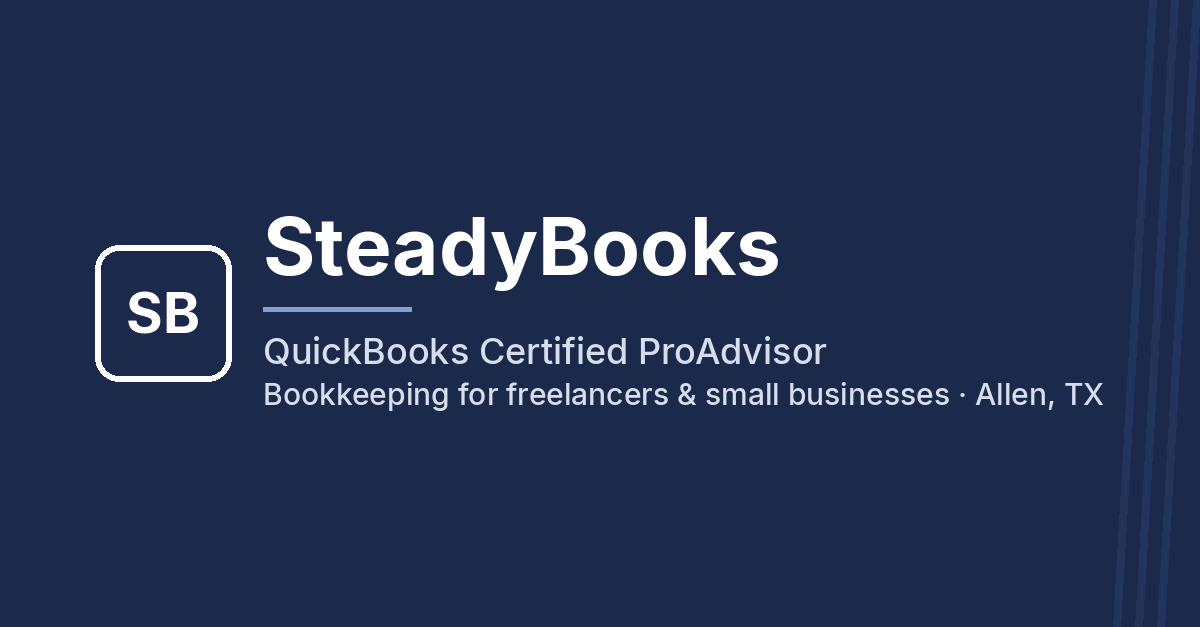
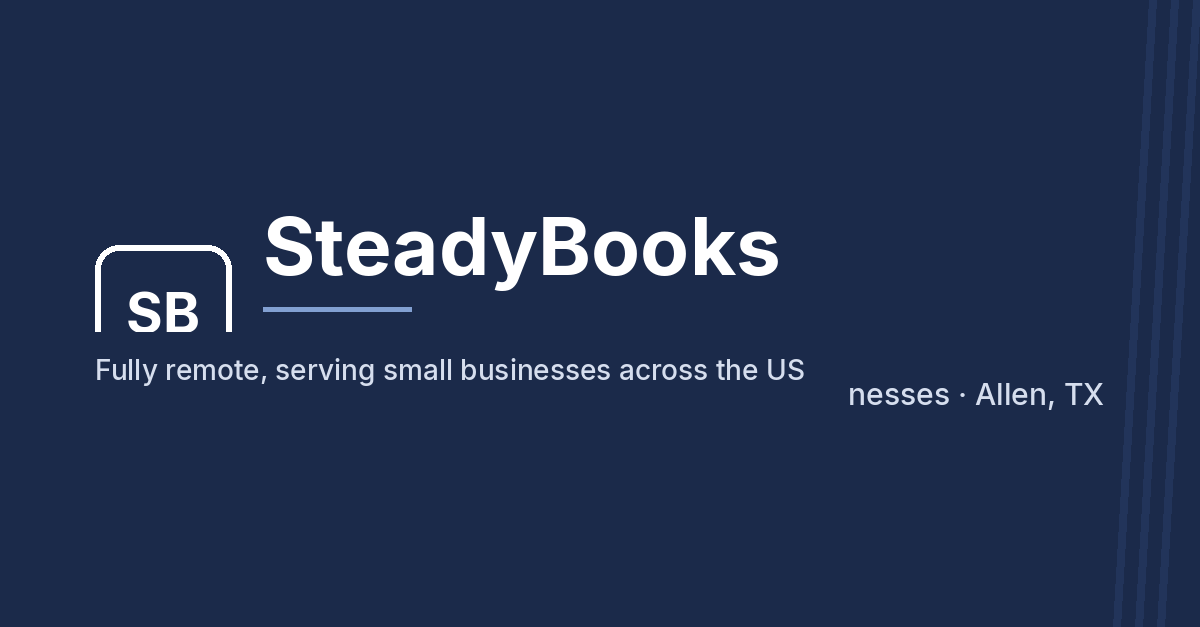
Describe SteadyBooks as fully remote across the US.
Keep the Allen mailing address, and drop wording that made the service sound limited to Texas.

Changed region(s): [[0.0617, 0.5152, 0.7092, 0.6667]]

diff --git a/client/index.html b/client/index.html
@@ -3,21 +3,21 @@
   <head>
     <meta charset="UTF-8" />
     <meta name="viewport" content="width=device-width, initial-scale=1.0" />
-    <title>SteadyBooks | QuickBooks Certified ProAdvisor in Allen, TX</title>
+    <title>SteadyBooks | QuickBooks Certified ProAdvisor | Remote Bookkeeping Across the US</title>
     <meta
       name="description"
-      content="Remote bookkeeping for freelancers, new LLCs &amp; small businesses. Catch-up, cleanup &amp; monthly books from Allen, TX. Get tax-ready by Feb 15. Free consult."
+      content="Fully remote bookkeeping for freelancers, new LLCs, and small businesses across the US. Catch-up, cleanup, and monthly books. Get tax-ready by Feb 15. Free consult."
     />
     <link rel="canonical" href="https://www.steady-books.com/" />
     <meta property="og:type" content="website" />
     <meta property="og:site_name" content="SteadyBooks" />
     <meta
       property="og:title"
-      content="SteadyBooks | QuickBooks Certified ProAdvisor in Allen, TX"
+      content="SteadyBooks | QuickBooks Certified ProAdvisor | Remote Bookkeeping Across the US"
     />
     <meta
       property="og:description"
-      content="Remote bookkeeping for freelancers, new LLCs &amp; small businesses. Catch-up, cleanup &amp; monthly books from Allen, TX. Get tax-ready by Feb 15. Free consult."
+      content="Fully remote bookkeeping for freelancers, new LLCs, and small businesses across the US. Catch-up, cleanup, and monthly books. Get tax-ready by Feb 15. Free consult."
     />
     <meta property="og:url" content="https://www.steady-books.com/" />
     <meta property="og:image" content="https://www.steady-books.com/og-image.png" />
@@ -25,17 +25,17 @@
     <meta property="og:image:height" content="627" />
     <meta
       property="og:image:alt"
-      content="SteadyBooks, QuickBooks Certified ProAdvisor. Bookkeeping for freelancers and small businesses in Allen, TX."
+      content="SteadyBooks, QuickBooks Certified ProAdvisor. Fully remote bookkeeping for freelancers and small businesses across the US."
     />
     <meta name="twitter:card" content="summary_large_image" />
     <meta name="twitter:image" content="https://www.steady-books.com/og-image.png" />
     <meta
       name="twitter:title"
-      content="SteadyBooks | QuickBooks Certified ProAdvisor in Allen, TX"
+      content="SteadyBooks | QuickBooks Certified ProAdvisor | Remote Bookkeeping Across the US"
     />
     <meta
       name="twitter:description"
-      content="Remote bookkeeping for freelancers, new LLCs &amp; small businesses. Catch-up, cleanup &amp; monthly books from Allen, TX. Get tax-ready by Feb 15. Free consult."
+      content="Fully remote bookkeeping for freelancers, new LLCs, and small businesses across the US. Catch-up, cleanup, and monthly books. Get tax-ready by Feb 15. Free consult."
     />
     <link rel="icon" href="/favicon.svg" type="image/svg+xml" />
     <script type="application/ld+json">
@@ -53,7 +53,7 @@
           "postalCode": "75002",
           "addressCountry": "US"
         },
-        "areaServed": "US"
+        "areaServed": "United States"
       }
     </script>
     <link rel="preconnect" href="https://fonts.googleapis.com" />

diff --git a/client/src/pages/Home.tsx b/client/src/pages/Home.tsx
@@ -19,8 +19,8 @@ const HERO_IMG = "/images/hero-workspace.svg";
 
 const facts = [
   "QuickBooks Certified ProAdvisor",
-  "Based in Allen, TX",
-  "Remote, nationwide",
+  "Fully remote",
+  "Any US state",
 ];
 
 const services = [
@@ -117,7 +117,7 @@ export default function Home() {
                 Behind on your books? Get tax-ready by Feb 15.
               </h1>
               <p className="font-body text-lg text-navy/70 leading-relaxed mb-8">
-                Bookkeeping for freelancers, new LLCs, and small businesses from a QuickBooks Certified ProAdvisor. I'm based in Allen, TX (Collin County) and serve clients remotely nationwide. Get clarity about your numbers, confidence at tax time, and a lot less stress.
+                Bookkeeping for freelancers, new LLCs, and small businesses from a QuickBooks Certified ProAdvisor. SteadyBooks is fully remote, serving small businesses across the US. Get clarity about your numbers, confidence at tax time, and a lot less stress.
               </p>
               <div className="flex flex-col sm:flex-row gap-3">
                 <ConsultLink className={primaryCta}>
@@ -381,7 +381,7 @@ export default function Home() {
             I started SteadyBooks because small business owners pour everything into their work, and too many of them lose sleep over their books. I want to use what I know about numbers to give them clarity, confidence, and a lot less stress, so they can get back to doing what they love.
           </p>
           <p className="font-body text-base text-navy/75 leading-relaxed mb-8">
-            I'm based in Allen, Texas, and I work with freelancers, new LLCs, and small businesses remotely, anywhere in the U.S. When you work with me, you work with me directly.
+            SteadyBooks is fully remote, serving freelancers, new LLCs, and small businesses across the US. When you work with me, you work with me directly.
           </p>
           <ConsultLink className={primaryCta}>
             Book a free consult with me

diff --git a/client/src/lib/site.ts b/client/src/lib/site.ts
@@ -9,10 +9,10 @@ export const STREET_ADDRESS = "1400 Andrew Parkway";
 export const CITY_LINE = "Allen, TX 75002";
 
 export const HOME_TITLE =
-  "SteadyBooks | QuickBooks Certified ProAdvisor in Allen, TX";
+  "SteadyBooks | QuickBooks Certified ProAdvisor | Remote Bookkeeping Across the US";
 
 export const HOME_DESCRIPTION =
-  "Remote bookkeeping for freelancers, new LLCs & small businesses. Catch-up, cleanup & monthly books from Allen, TX. Get tax-ready by Feb 15. Free consult.";
+  "Fully remote bookkeeping for freelancers, new LLCs, and small businesses across the US. Catch-up, cleanup, and monthly books. Get tax-ready by Feb 15. Free consult.";
 
 export type RouteSeo = {
   path: string;
@@ -30,7 +30,7 @@ export const ROUTE_SEO: RouteSeo[] = [
     path: "/about",
     title: "About Faizan Qureshi | SteadyBooks",
     description:
-      "Faizan Qureshi is a QuickBooks Certified ProAdvisor in Allen, TX. He started SteadyBooks in October 2026 and works with clients remotely across the U.S.",
+      "Faizan Qureshi is a QuickBooks Certified ProAdvisor. He started SteadyBooks in October 2026 and serves small businesses fully remote across the US.",
   },
   {
     path: "/services",
@@ -46,7 +46,7 @@ export const ROUTE_SEO: RouteSeo[] = [
   },
   {
     path: "/contact",
-    title: "Contact SteadyBooks | Allen, TX",
+    title: "Contact SteadyBooks | Remote Bookkeeping",
     description:
       "Email faizan@steady-books.com or book a free 30-minute consult. SteadyBooks is at 1400 Andrew Parkway, Allen, TX 75002.",
   },
@@ -90,5 +90,5 @@ export const LOCAL_BUSINESS_JSON_LD = {
     postalCode: "75002",
     addressCountry: "US",
   },
-  areaServed: "US",
+  areaServed: "United States",
 };

diff --git a/client/src/pages/About.tsx b/client/src/pages/About.tsx
@@ -35,7 +35,7 @@ export default function About() {
             I started SteadyBooks because small business owners pour everything into their work, and too many of them lose sleep over their books. I want to use what I know about numbers to give them clarity, confidence, and a lot less stress, so they can get back to doing what they love.
           </p>
           <p className="font-body text-base text-navy/75 leading-relaxed mb-8">
-            I'm based in Allen, Texas, and I work with freelancers, new LLCs, and small businesses remotely, anywhere in the U.S. When you work with me, you work with me directly.
+            SteadyBooks is fully remote, serving freelancers, new LLCs, and small businesses across the US. When you work with me, you work with me directly.
           </p>
           <ConsultLink className={cta}>
             Book a free consult with me

diff --git a/client/src/components/Seo.tsx b/client/src/components/Seo.tsx
@@ -45,7 +45,7 @@ export default function Seo({
     upsertMeta(
       "property",
       "og:image:alt",
-      "SteadyBooks, QuickBooks Certified ProAdvisor. Bookkeeping for freelancers and small businesses in Allen, TX.",
+      "SteadyBooks, QuickBooks Certified ProAdvisor. Fully remote bookkeeping for freelancers and small businesses across the US.",
     );
     upsertMeta("name", "twitter:card", "summary_large_image");
     upsertMeta("name", "twitter:image", "https://www.steady-books.com/og-image.png");

diff --git a/client/src/pages/Contact.tsx b/client/src/pages/Contact.tsx
@@ -44,7 +44,7 @@ export default function Contact() {
                   <MapPin className="w-4 h-4 text-sage" />
                 </div>
                 <div>
-                  <p className="font-body text-xs text-navy/50 mb-0.5">Office</p>
+                  <p className="font-body text-xs text-navy/50 mb-0.5">Address</p>
                   <p className="font-body text-sm font-medium text-navy">
                     {STREET_ADDRESS}
                     <br />
